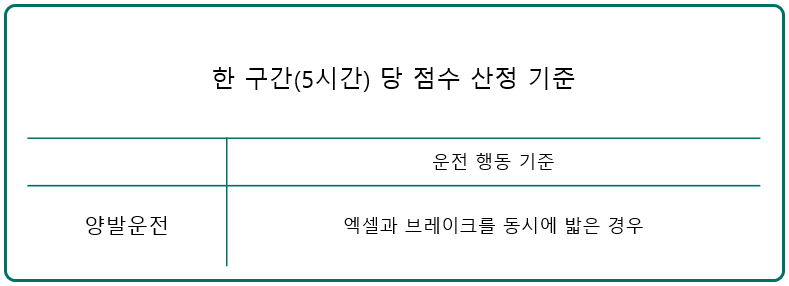
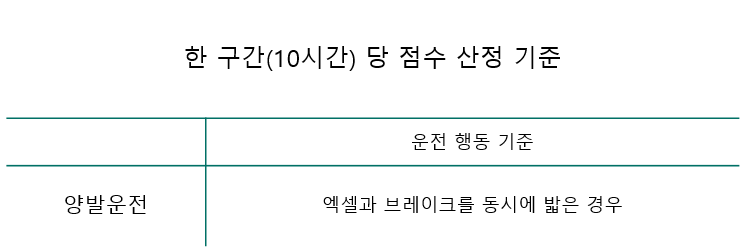
Chore:  운전 점수 도움말 변경

diff --git a/drc-app/src/components/Modal/HelpScoreModal.js b/drc-app/src/components/Modal/HelpScoreModal.js
@@ -1,5 +1,5 @@
 import React, { useRef, useState } from 'react';
-import { Modal, View, Text, StyleSheet, TouchableOpacity, Image, ScrollView, Dimensions } from 'react-native';
+import { Modal, View, Text, StyleSheet, TouchableOpacity, Image, ScrollView, Dimensions, Platform } from 'react-native';
 import { useTheme } from '../Mode/ThemeContext';
 
 const HelpScoreModal = ({ visible, onClose }) => {
@@ -14,8 +14,8 @@ const HelpScoreModal = ({ visible, onClose }) => {
     ];
 
     const descriptions = [
-        '안전운전 점수는 최근 주행시간을\n 5시간 단위로 하나의 구간으로 책정한 뒤\n 최대 6개 구간의 점수를 기반으로 \n평균을 내어 계산됩니다.\n\n',
-        '또한, 주행시간이 30시간이 넘을 경우\n 가장 과거 시점 구간이 제외되고\n 새로운 구간이 점수에 반영됩니다.\n\n\n',
+        '안전운전 점수는 최근 주행시간을\n 10시간 단위로 하나의 구간으로 책정한 뒤\n 최대 6개 구간의 점수를 기반으로 \n평균을 내어 계산됩니다.\n\n',
+        '또한, 주행시간이 60시간이 넘을 경우\n 가장 과거 시점 구간이 제외되고\n 새로운 구간이 점수에 반영됩니다.\n\n\n',
     ];
 
     const nextImage = () => {
@@ -51,10 +51,6 @@ const HelpScoreModal = ({ visible, onClose }) => {
                     >
                         {images.map((image, index) => (
                             <View key={index} style={[styles.pageContainer, { width: screenWidth - 78 }]}>
-                                {/* 페이지 번호 표시 */}
-                                <Text style={[styles.pageNumberText, { color: isDarkMode ? '#fff' : '#000' }]}>
-                                    {index + 1} / {images.length}
-                                </Text>
 
                                 {/* 이미지 */}
                                 <Image source={image} style={styles.image} />
@@ -104,7 +100,7 @@ const styles = StyleSheet.create({
     },
     image: {
         width: 300,
-        height: 200,
+        height: 190,
         resizeMode: 'contain',
         marginBottom: 20,
         marginTop: 30,
@@ -124,7 +120,7 @@ const styles = StyleSheet.create({
         padding: 10,
     },
     arrowText: {
-        fontSize: 24,
+        fontSize: Platform.OS === 'ios' ? 46  : 24,
         fontWeight: 'bold',
         color: '#009688',
     },

diff --git a/drc-app/src/components/Modal/HelpDeductionModal.js b/drc-app/src/components/Modal/HelpDeductionModal.js
@@ -1,5 +1,5 @@
 import React, { useRef, useState } from 'react';
-import { Modal, View, Text, StyleSheet, TouchableOpacity, Image, ScrollView, Dimensions } from 'react-native';
+import { Modal, View, Text, StyleSheet, TouchableOpacity, Image, ScrollView, Dimensions, Platform } from 'react-native';
 import { useTheme } from '../Mode/ThemeContext';
 
 const HelpDeductionModal = ({ visible, onClose }) => {
@@ -9,8 +9,8 @@ const HelpDeductionModal = ({ visible, onClose }) => {
     const [currentImageIndex, setCurrentImageIndex] = useState(0);
 
     const images = [
-        require('../../../assets/helpScore/HelpDeduction11.png'), // 이미지 경로
-        require('../../../assets/helpScore/HelpDeduction22.png'),
+        require('../../../assets/helpScore/HelpDeduction1.png'), // 이미지 경로
+        require('../../../assets/helpScore/HelpDeduction2.png'),
     ];
 
     const descriptions = [
@@ -50,7 +50,7 @@ const HelpDeductionModal = ({ visible, onClose }) => {
                         ref={scrollViewRef} // 참조 연결
                     >
                         {images.map((image, index) => (
-                            <View key={index} style={[styles.pageContainer, { width: screenWidth - 62 }]}>
+                            <View key={index} style={[styles.pageContainer, { width: screenWidth - 78 }]}>
                                 {/* 이미지 */}
                                 <Image source={image} style={styles.image} />
 
@@ -95,11 +95,11 @@ const styles = StyleSheet.create({
     },
     pageContainer: {
         alignItems: 'center',
-        marginHorizontal: 2, // 이미지 사이 간격 추가
+        marginHorizontal: 10, // 이미지 사이 간격 추가
     },
     image: {
-        width: 330,
-        height: 230,
+        width: 290,
+        height: 220,
         resizeMode: 'contain',
         marginBottom: 20,
         marginTop: 40,
@@ -120,7 +120,7 @@ const styles = StyleSheet.create({
         padding: 10,
     },
     arrowText: {
-        fontSize: 46,
+        fontSize: Platform.OS === 'ios' ? 46  : 24,
         fontWeight: 'bold',
         color: '#009688',
         
